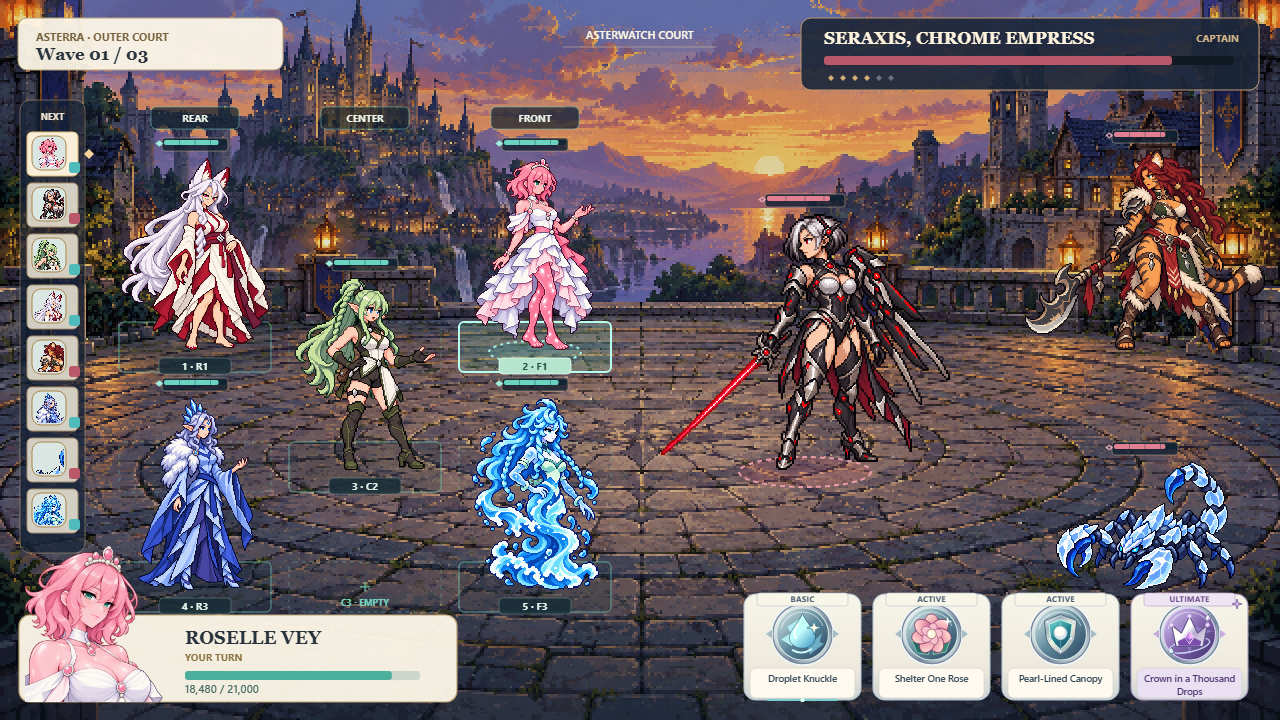
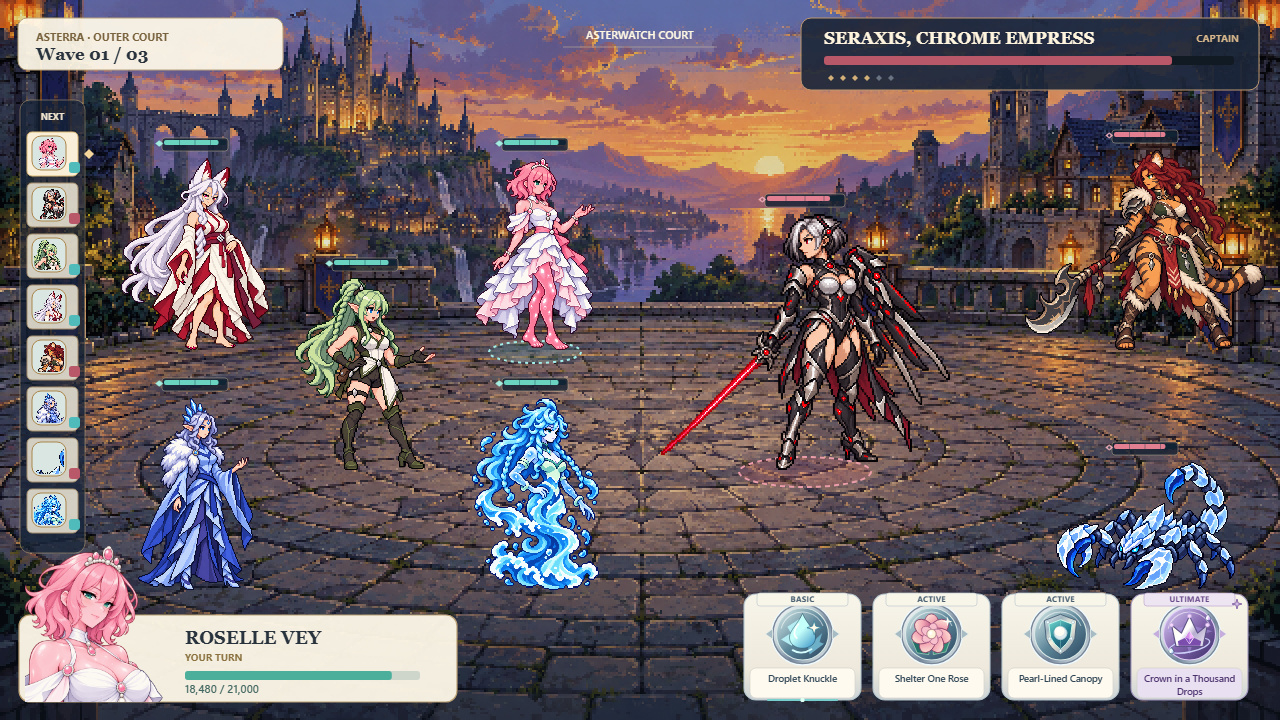
Publish current ProjectG character and kit review

diff --git a/formation-grids.html b/formation-grids.html
@@ -1,12 +1,15 @@
 <!doctype html><html lang="en"><head><meta charset="utf-8"><meta name="viewport" content="width=device-width,initial-scale=1"><title>ProjectG · Fixed-slot formation designs</title><style>
 :root{color-scheme:light;--paper:#f4f0e7;--card:#fffdf8;--ink:#28333d;--muted:#68645d;--line:#d9d1c2;--mint:#dceae5;--gold:#846739}*{box-sizing:border-box}body{margin:0;background:var(--paper);color:var(--ink);font:15px/1.5 system-ui,-apple-system,"Segoe UI",sans-serif}main{max-width:1500px;margin:auto;padding:26px clamp(14px,3vw,38px) 45px}h1{font:500 clamp(30px,4vw,43px)/1.1 Georgia,serif;margin:0}.eyebrow{font-size:11px;letter-spacing:.14em;text-transform:uppercase;color:var(--gold);font-weight:750;margin:0 0 9px}.intro{max-width:930px;color:var(--muted);margin:13px 0 14px}a{color:#735827;text-underline-offset:3px}.links{display:flex;flex-wrap:wrap;gap:12px 24px;margin:14px 0}.notice{border-left:3px solid #6d9186;background:#e3ece5;padding:11px 14px;font-size:13px}.designs{display:grid;grid-template-columns:1fr 1fr;gap:14px;margin:22px 0 16px}button{font:inherit;cursor:pointer}button:focus-visible,a:focus-visible{outline:3px solid #3c8b80;outline-offset:3px}button:disabled{cursor:wait;opacity:.6}.design{display:grid;grid-template-columns:1fr 150px;gap:15px;align-items:center;text-align:left;border:1px solid var(--line);border-radius:12px;background:var(--card);padding:16px 18px;color:var(--ink);min-height:144px}.design strong{display:block;font:500 25px Georgia,serif}.design small{display:block;margin-top:5px;color:var(--muted);font-size:12px}.design[aria-pressed=true]{background:#e9f0e9;border-color:#648d7e;box-shadow:inset 0 0 0 1px #648d7e}.mini{display:grid;grid-template-columns:repeat(3,1fr);gap:5px}.mini span{display:grid;place-items:center;border:1px solid #a9b8b0;border-radius:4px;height:23px;color:#60746d;background:#fff9e944;font-size:11px}.mini .filled{background:#536f68;color:white;border-color:#536f68}.toolbar{display:flex;gap:8px;flex-wrap:wrap;justify-content:space-between;align-items:center;margin:12px 0}.toolgroup{display:flex;gap:7px;flex-wrap:wrap;align-items:center}.toolgroup button,.download{min-height:44px;border:1px solid var(--line);border-radius:8px;background:var(--card);padding:8px 13px;color:var(--ink)}.toolgroup button[aria-pressed=true]{background:#dceae5;border-color:#6d9186}.download{background:#506e64;border-color:#506e64;color:white}.canvas-viewport{width:100%;overflow:auto;border:1px solid #b7bdba;border-radius:11px;background:#202c36;box-shadow:0 8px 24px #2737291a}.canvas-viewport canvas{display:block;width:100%;height:auto;max-width:none;image-rendering:pixelated}.canvas-viewport[data-zoom="1"] canvas{width:1280px;height:720px}.caption{display:flex;justify-content:space-between;gap:10px;flex-wrap:wrap;margin:10px 0 0;font-size:12px;color:var(--muted)}.caption strong{color:var(--ink)}.loading{font-size:12px;color:var(--muted);margin:8px 0 20px}.editor{border:1px solid var(--line);background:var(--card);border-radius:12px;padding:16px;margin:18px 0}.editor h2,.exports h2{font:500 24px Georgia,serif;margin:0 0 8px}.editor p{font-size:13px;color:var(--muted);margin:6px 0 12px}.party{display:flex;gap:7px;flex-wrap:wrap;margin:12px 0 16px}.party button{border:1px solid var(--line);border-radius:7px;min-height:44px;padding:8px 13px;background:#fffaf0;color:var(--ink)}.party button[aria-pressed=true]{border-color:#5b8a78;background:#dceae5}.slot-board{display:grid;grid-template-columns:repeat(3,minmax(0,1fr));gap:7px;max-width:680px}.rank-title{text-align:center;color:var(--muted);font-size:11px;text-transform:uppercase;letter-spacing:.1em;padding-bottom:3px}.slot-board button{min-height:58px;border:1px dashed #bdc9c2;border-radius:7px;background:#f1f3ed;color:#526c60;padding:7px 8px}.slot-board button strong{display:block;font-size:11px;color:#687e72}.slot-board button.occupied{border-style:solid;background:#e9eee6;color:#253f32}.slot-board button.selected{border:2px solid #51917d;background:#d8e9df}.slot-board button span{display:block;font-size:13px}.slot-feedback{min-height:22px;color:#3a6c57!important}.exports{margin-top:24px}.export-grid{display:grid;grid-template-columns:1fr 1fr;gap:14px}.export{display:block;border:1px solid var(--line);border-radius:10px;overflow:hidden;background:var(--card);text-decoration:none}.export img{display:block;width:100%;height:auto;image-rendering:pixelated}.export span{display:block;padding:10px 12px;font-size:13px}.pending{padding:20px;color:var(--muted)}footer{margin-top:24px;font-size:12px;color:var(--muted)}[hidden]{display:none!important}@media(max-width:720px){main{padding-top:20px}.designs,.export-grid{grid-template-columns:1fr}.design{grid-template-columns:1fr 114px;padding:13px 14px;min-height:116px}.design strong{font-size:23px}.mini{gap:4px}.toolbar{align-items:stretch}.download{width:100%}.party button{flex:1 1 125px}.editor{padding:13px}.slot-board button{font-size:12px}.caption{display:block}.caption span{display:block;margin-top:4px}}
+
+.phase-controls{display:flex;flex-wrap:wrap;align-items:center;justify-content:space-between;gap:13px;margin:18px 0;padding:15px 17px;background:var(--card);border:1px solid var(--line);border-radius:11px}.phase-controls strong{display:block;font-size:17px}.phase-controls p{margin:4px 0 0;color:var(--muted);font-size:13px}.phase-controls button{min-height:44px;border:1px solid #506e64;border-radius:8px;background:#506e64;color:white;padding:9px 18px}.phase-controls #return-setup{background:var(--card);border-color:var(--line);color:var(--ink)}@media(max-width:720px){.phase-controls{align-items:stretch}.phase-controls button{width:100%}}
 </style></head><body><main>
-<header><p class="eyebrow">ProjectG · Two formation designs</p><h1>Every hero has a fixed slot.</h1><p class="intro">Choose a formation system: nine slots or six. Both use three depth ranks—rear, center and front—with evenly spaced positions. Five heroes snap to those positions.</p><nav class="links"><a href="combat.html">Previous combat comparisons</a><a href="review.html">Characters</a><a href="portraits.html">Portraits</a><a href="enemies.html">Enemies</a></nav><p class="notice">Design drafts for your choice. The existing portrait, boss bar and emblem controls are carried forward. These two grids have not been selected for the game yet.</p></header>
-<section class="designs" aria-label="Choose between two fixed grids"><button class="design" data-design="3x3" aria-pressed="true" disabled><div><strong>A · 3 × 3 grid</strong><small>Starseed-style</small><small>Three ranks, three lanes. Five heroes occupy nine fixed slots.</small></div><div class="mini" aria-hidden="true"><span class="filled">1</span><span class="">·</span><span class="filled">2</span><span class="">·</span><span class="filled">3</span><span class="">·</span><span class="filled">4</span><span class="">·</span><span class="filled">5</span></div></button><button class="design" data-design="3x2" aria-pressed="false" disabled><div><strong>B · 3 × 2 grid</strong><small>Lost Sword-style</small><small>Three ranks, two lanes. Five heroes occupy six fixed slots.</small></div><div class="mini" aria-hidden="true"><span class="filled">1</span><span class="filled">2</span><span class="filled">3</span><span class="filled">4</span><span class="">·</span><span class="filled">5</span></div></button></section><p id="formation-description" class="intro"></p>
-<div class="toolbar"><div class="toolgroup"><button id="toggle-grid" aria-pressed="true">Grid visible</button><button data-zoom="fit" aria-pressed="true">Fit</button><button data-zoom="1" aria-pressed="false">1× pixels</button><button id="reset-grid">Reset slots</button></div><button class="download" id="download-canvas" disabled>Download this design · PNG</button></div>
[1 lines of base64/hex data omitted]
-<section class="editor"><h2>Try the slots.</h2><p>Tap a hero, then a slot. Choosing an occupied slot swaps the two heroes. Every move stays on the grid.</p><div class="party" aria-label="Select a hero"><button type="button" data-party-unit="soryn-veilglass" aria-pressed="false">1 · Soryn</button><button type="button" data-party-unit="roselle-vey" aria-pressed="true">2 · Roselle</button><button type="button" data-party-unit="liora-fernveil" aria-pressed="false">3 · Liora</button><button type="button" data-party-unit="isavelle-frostmere" aria-pressed="false">4 · Isavelle</button><button type="button" data-party-unit="nerielle-wavecrest" aria-pressed="false">5 · Nerielle</button></div><div id="slot-board" class="slot-board" aria-label="Fixed hero slots"></div><p id="slot-feedback" class="slot-feedback" aria-live="polite"></p><select id="portrait-hero" hidden><option value="soryn-veilglass">Soryn Veilglass</option><option value="roselle-vey">Roselle Vey</option><option value="liora-fernveil">Liora Fernveil</option><option value="isavelle-frostmere">Isavelle Frostmere</option><option value="nerielle-wavecrest">Nerielle Wavecrest</option></select><p id="portrait-status" hidden></p></section>
-<section class="exports"><h2>Compare the two designs.</h2><div class="export-grid"><a class="export" href="formation-grid-assets/design-a-3x3.png?v=4e9d9040e328" download><img src="formation-grid-assets/design-a-3x3.png?v=4e9d9040e328" alt="A: 3 × 3 grid fixed slot design" loading="lazy"><span>A · 3 × 3 grid · Download PNG</span></a><a class="export" href="formation-grid-assets/design-b-3x2.png?v=38c4d3234e08" download><img src="formation-grid-assets/design-b-3x2.png?v=38c4d3234e08" alt="B: 3 × 2 grid fixed slot design" loading="lazy"><span>B · 3 × 2 grid · Download PNG</span></a></div></section><footer>Hero art remains at192 logical pixels high; portrait framing, skill controls and HUD values match the previous review. HP values are illustrative. Reference systems: <a href="https://promotion.withhive.com/custom/board_detail/1156?language=en">Starseed’s formation guide</a> and <a href="https://lostsword.wemadeconnect.com/EN">Lost Sword</a>. Existing ProjectG artwork is reused; the reference games’ art is not included.</footer>
+<header><p class="eyebrow">ProjectG · Two formation designs</p><h1>Every hero has a fixed slot.</h1><p class="intro">Choose a formation system: nine slots or six. Both use three depth ranks—rear, center and front—with evenly spaced positions. Arrange your five heroes before entering battle.</p><nav class="links"><a href="combat.html">Previous combat comparisons</a><a href="review.html">Characters</a><a href="portraits.html">Portraits</a><a href="enemies.html">Enemies</a></nav><p class="notice">Design drafts for your choice. The existing portrait, boss bar and emblem controls are carried forward. These two grids have not been selected for the game yet.</p></header>
+<section id="design-picker" class="designs" aria-label="Choose between two fixed grids" data-setup-only><button class="design" data-design="3x3" aria-pressed="true" disabled><div><strong>A · 3 × 3 grid</strong><small>Starseed-style</small><small>Three ranks, three lanes. Five heroes occupy nine fixed slots.</small></div><div class="mini" aria-hidden="true"><span class="filled">1</span><span class="">·</span><span class="filled">2</span><span class="">·</span><span class="filled">3</span><span class="">·</span><span class="filled">4</span><span class="">·</span><span class="filled">5</span></div></button><button class="design" data-design="3x2" aria-pressed="false" disabled><div><strong>B · 3 × 2 grid</strong><small>Lost Sword-style</small><small>Three ranks, two lanes. Five heroes occupy six fixed slots.</small></div><div class="mini" aria-hidden="true"><span class="filled">1</span><span class="filled">2</span><span class="filled">3</span><span class="filled">4</span><span class="">·</span><span class="filled">5</span></div></button></section><p id="formation-description" class="intro" data-setup-only></p>
+<section class="phase-controls" aria-label="Battle preview phase"><div><strong id="phase-title">Pre-battle setup</strong><p id="phase-description">Arrange your heroes, then enter battle.</p></div><button id="enter-battle" disabled>Enter battle</button><button id="return-setup" hidden>End battle preview</button></section>
+<div class="toolbar"><div class="toolgroup"><button id="toggle-grid" aria-pressed="true" data-setup-only>Grid visible</button><button data-zoom="fit" aria-pressed="true">Fit</button><button data-zoom="1" aria-pressed="false">1× pixels</button><button id="reset-grid" data-setup-only>Reset slots</button></div><button class="download" id="download-canvas" disabled>Download this design · PNG</button></div>
[1 lines of base64/hex data omitted]
+<section id="formation-editor" class="editor" data-setup-only><h2>Prepare your formation.</h2><p>Tap a hero, then a slot. Choosing an occupied slot swaps the two heroes. Formation editing ends when you enter battle.</p><div class="party" aria-label="Select a hero"><button type="button" data-party-unit="soryn-veilglass" aria-pressed="false">1 · Soryn</button><button type="button" data-party-unit="roselle-vey" aria-pressed="true">2 · Roselle</button><button type="button" data-party-unit="liora-fernveil" aria-pressed="false">3 · Liora</button><button type="button" data-party-unit="isavelle-frostmere" aria-pressed="false">4 · Isavelle</button><button type="button" data-party-unit="nerielle-wavecrest" aria-pressed="false">5 · Nerielle</button></div><div id="slot-board" class="slot-board" aria-label="Fixed hero slots"></div><p id="slot-feedback" class="slot-feedback" aria-live="polite"></p><select id="portrait-hero" hidden><option value="soryn-veilglass">Soryn Veilglass</option><option value="roselle-vey">Roselle Vey</option><option value="liora-fernveil">Liora Fernveil</option><option value="isavelle-frostmere">Isavelle Frostmere</option><option value="nerielle-wavecrest">Nerielle Wavecrest</option></select><p id="portrait-status" hidden></p></section>
+<section class="exports" data-setup-only><h2>Compare the battle views.</h2><div class="export-grid"><a class="export" href="formation-grid-assets/design-a-3x3.png?v=c1ecd5834829" download><img src="formation-grid-assets/design-a-3x3.png?v=c1ecd5834829" alt="A: 3 × 3 grid fixed slot design" loading="lazy"><span>A · 3 × 3 grid · Download PNG</span></a><a class="export" href="formation-grid-assets/design-b-3x2.png?v=2bf7e8542c7d" download><img src="formation-grid-assets/design-b-3x2.png?v=2bf7e8542c7d" alt="B: 3 × 2 grid fixed slot design" loading="lazy"><span>B · 3 × 2 grid · Download PNG</span></a></div></section><footer>Hero art remains at192 logical pixels high; portrait framing, skill controls and HUD values match the previous review. HP values are illustrative. Reference systems: <a href="https://promotion.withhive.com/custom/board_detail/1156?language=en">Starseed’s formation guide</a> and <a href="https://lostsword.wemadeconnect.com/EN">Lost Sword</a>. Existing ProjectG artwork is reused; the reference games’ art is not included.</footer>
 <script id="combat-data" type="application/json">{"background": {"sprite": "combat-draft-assets/asterwatch-court-pixel-v1.png"}, "units": [{"id": "roselle-vey", "name": "Roselle Vey", "team": "hero", "logicalHeight": 192, "displayScale": 1, "facing": "right", "sprite": "combat-draft-assets/draft-roselle-vey-coarse-v1.png"}, {"id": "liora-fernveil", "name": "Liora Fernveil", "team": "hero", "logicalHeight": 192, "displayScale": 1, "facing": "right", "sprite": "combat-draft-assets/draft-liora-fernveil-coarse-v1.png"}, {"id": "soryn-veilglass", "name": "Soryn Veilglass", "team": "hero", "logicalHeight": 192, "displayScale": 1, "facing": "right", "sprite": "combat-draft-assets/draft-soryn-veilglass-coarse-v1.png"}, {"id": "isavelle-frostmere", "name": "Isavelle Frostmere", "team": "hero", "logicalHeight": 192, "displayScale": 1, "facing": "right", "sprite": "combat-draft-assets/draft-isavelle-frostmere-coarse-v1.png"}, {"id": "nerielle-wavecrest", "name": "Nerielle Wavecrest", "team": "hero", "logicalHeight": 192, "displayScale": 1, "facing": "right", "sprite": "combat-draft-assets/draft-nerielle-wavecrest-coarse-v1.png"}, {"id": "seraxis-chrome-empress", "name": "Seraxis, Chrome Empress", "team": "enemy", "logicalHeight": 224, "displayScale": 1, "facing": "left", "sprite": "combat-draft-assets/draft-seraxis-chrome-empress-coarse-v1.png"}, {"id": "velkara-moonfang", "name": "Velkara Moonfang", "team": "enemy", "logicalHeight": 200, "displayScale": 1, "facing": "left", "sprite": "combat-draft-assets/draft-velkara-moonfang-coarse-v1.png"}, {"id": "frostglass-scorpion", "name": "Frostglass Scorpion", "team": "enemy", "logicalHeight": 128, "displayScale": 1, "facing": "left", "sprite": "combat-draft-assets/draft-frostglass-scorpion-coarse-v1.png"}], "layouts": [{"id": "d", "name": "Your combined layout", "description": "Your five-hero formation aligned with the boss, with C’s boss bar and B’s compact portrait/HP panel and wave counter.", "label": "D", "positions": [{"id": "soryn-veilglass", "x": 235, "y": 439}, {"id": "liora-fernveil", "x": 373, "y": 490}, {"id": "roselle-vey", "x": 509, "y": 428}, {"id": "isavelle-frostmere", "x": 219, "y": 579}, {"id": "nerielle-wavecrest", "x": 505, "y": 596}, {"id": "seraxis-chrome-empress", "x": 930, "y": 490, "logicalHeight": 256}, {"id": "velkara-moonfang", "x": 1110, "y": 439}, {"id": "frostglass-scorpion", "x": 1130, "y": 579}]}], "activeId": "roselle-vey", "skills": ["Droplet Knuckle", "Shelter One Rose", "Pearl-Lined Canopy", "Crown in a Thousand Drops"], "genericSkills": ["Basic", "Active 1", "Active 2", "Ultimate"], "portraits": [{"id": "isavelle-frostmere", "name": "Isavelle Frostmere", "rosterScope": "accepted-new-identity-11-not-runtime-integrated", "sprite": "portrait-assets/portrait-isavelle-frostmere-illustrated-v1.png?v=dd5ea7b40330", "framing": {"faceCenterX": 717, "eyeLineY": 420, "chinY": 587}}, {"id": "liora-fernveil", "name": "Liora Fernveil", "rosterScope": "accepted-new-identity-11-not-runtime-integrated", "sprite": "portrait-assets/portrait-liora-fernveil-illustrated-v1.png?v=d4ae2aa139e7", "framing": {"faceCenterX": 749, "eyeLineY": 357, "chinY": 505}}, {"id": "nerielle-wavecrest", "name": "Nerielle Wavecrest", "rosterScope": "accepted-new-identity-11-not-runtime-integrated", "sprite": "portrait-assets/portrait-nerielle-wavecrest-illustrated-v1.png?v=fb8f02648b58", "framing": {"faceCenterX": 790, "eyeLineY": 390, "chinY": 530}}, {"id": "roselle-vey", "name": "Roselle Vey", "rosterScope": "accepted-new-identity-11-not-runtime-integrated", "sprite": "portrait-assets/portrait-roselle-vey-illustrated-v1.png?v=8556eec70e10", "framing": {"faceCenterX": 716, "eyeLineY": 366, "chinY": 549}}, {"id": "soryn-veilglass", "name": "Soryn Veilglass", "rosterScope": "accepted-new-identity-11-not-runtime-integrated", "sprite": "portrait-assets/portrait-soryn-veilglass-illustrated-v1.png?v=418653f6718b", "framing": {"faceCenterX": 729, "eyeLineY": 435, "chinY": 566}}], "portraitFrame": {"width": 146, "height": 190, "eyeLine": 88, "eyeToChin": 28, "faceCenterX": 73}, "defaultLayout": "d", "skillStyles": [{"id": "crests", "name": "01 · Crest seals", "description": "Sculpted medallions, luminous command symbols and a violet ultimate seal."}], "defaultSkillStyle": "crests", "defaultFormation": "3x3", "formationTeamOrder": ["soryn-veilglass", "roselle-vey", "liora-fernveil", "isavelle-frostmere", "nerielle-wavecrest"], "formations": [{"id": "3x3", "label": "A", "name": "3 × 3 grid", "inspiration": "Starseed-style", "description": "Three ranks, three lanes. Five heroes occupy nine fixed slots.", "columns": [195, 365, 535], "rows": [350, 470, 590], "enemyColumns": [805, 975, 1145], "initialAssignments": [0, 2, 4, 6, 8], "enemyAssignments": [3, 2, 8], "preview": "formation-grid-assets/design-a-3x3.png", "slots": [{"index": 0, "column": 0, "row": 0, "x": 195, "y": 350, "label": "R1"}, {"index": 1, "column": 1, "row": 0, "x": 365, "y": 350, "label": "C1"}, {"index": 2, "column": 2, "row": 0, "x": 535, "y": 350, "label": "F1"}, {"index": 3, "column": 0, "row": 1, "x": 195, "y": 470, "label": "R2"}, {"index": 4, "column": 1, "row": 1, "x": 365, "y": 470, "label": "C2"}, {"index": 5, "column": 2, "row": 1, "x": 535, "y": 470, "label": "F2"}, {"index": 6, "column": 0, "row": 2, "x": 195, "y": 590, "label": "R3"}, {"index": 7, "column": 1, "row": 2, "x": 365, "y": 590, "label": "C3"}, {"index": 8, "column": 2, "row": 2, "x": 535, "y": 590, "label": "F3"}], "enemySlots": [{"index": 0, "column": 0, "row": 0, "x": 805, "y": 350, "label": "F1"}, {"index": 1, "column": 1, "row": 0, "x": 975, "y": 350, "label": "C1"}, {"index": 2, "column": 2, "row": 0, "x": 1145, "y": 350, "label": "R1"}, {"index": 3, "column": 0, "row": 1, "x": 805, "y": 470, "label": "F2"}, {"index": 4, "column": 1, "row": 1, "x": 975, "y": 470, "label": "C2"}, {"index": 5, "column": 2, "row": 1, "x": 1145, "y": 470, "label": "R2"}, {"index": 6, "column": 0, "row": 2, "x": 805, "y": 590, "label": "F3"}, {"index": 7, "column": 1, "row": 2, "x": 975, "y": 590, "label": "C3"}, {"index": 8, "column": 2, "row": 2, "x": 1145, "y": 590, "label": "R3"}]}, {"id": "3x2", "label": "B", "name": "3 × 2 grid", "inspiration": "Lost Sword-style", "description": "Three ranks, two lanes. Five heroes occupy six fixed slots.", "columns": [195, 365, 535], "rows": [375, 590], "enemyColumns": [805, 975, 1145], "initialAssignments": [0, 1, 2, 3, 5], "enemyAssignments": [0, 2, 5], "preview": "formation-grid-assets/design-b-3x2.png", "slots": [{"index": 0, "column": 0, "row": 0, "x": 195, "y": 375, "label": "R1"}, {"index": 1, "column": 1, "row": 0, "x": 365, "y": 375, "label": "C1"}, {"index": 2, "column": 2, "row": 0, "x": 535, "y": 375, "label": "F1"}, {"index": 3, "column": 0, "row": 1, "x": 195, "y": 590, "label": "R2"}, {"index": 4, "column": 1, "row": 1, "x": 365, "y": 590, "label": "C2"}, {"index": 5, "column": 2, "row": 1, "x": 535, "y": 590, "label": "F2"}], "enemySlots": [{"index": 0, "column": 0, "row": 0, "x": 805, "y": 375, "label": "F1"}, {"index": 1, "column": 1, "row": 0, "x": 975, "y": 375, "label": "C1"}, {"index": 2, "column": 2, "row": 0, "x": 1145, "y": 375, "label": "R1"}, {"index": 3, "column": 0, "row": 1, "x": 805, "y": 590, "label": "F2"}, {"index": 4, "column": 1, "row": 1, "x": 975, "y": 590, "label": "C2"}, {"index": 5, "column": 2, "row": 1, "x": 1145, "y": 590, "label": "R2"}]}], "enemyOrder": ["seraxis-chrome-empress", "velkara-moonfang", "frostglass-scorpion"]}</script><script>
 const data=JSON.parse(document.querySelector('#combat-data').textContent),canvas=document.querySelector('#combat-canvas'),ctx=canvas.getContext('2d'),viewport=document.querySelector('#canvas-viewport'),status=document.querySelector('#render-status'),exportButton=document.querySelector('#download-canvas');
 const images=new Map(),grids=new Map(),bounds=new Map(),portraitImages=new Map(),portraitPending=new Map();const requestedPortrait=new URLSearchParams(location.search).get('portrait');const requestedSkills=new URLSearchParams(location.search).get('skills');const requestedFormation=new URLSearchParams(location.search).get('formation');let selected=data.defaultLayout,chosenFormation=data.formations.some(formation=>formation.id===requestedFormation)?requestedFormation:data.defaultFormation,chosenSkillStyle=data.skillStyles.some(style=>style.id===requestedSkills)?requestedSkills:data.defaultSkillStyle,ready=false,chosenPortrait=data.portraits.some(hero=>hero.id===requestedPortrait)?requestedPortrait:data.activeId;
@@ -58,25 +61,30 @@ async function choosePortrait(id){if(!data.portraits.some(hero=>hero.id===id))re
 
 async function load(){try{await Promise.all([{id:'background',...data.background},...data.units].map(asset=>new Promise((resolve,reject)=>{const image=new Image();image.onload=()=>{images.set(asset.id,image);if(asset.id!=='background')bounds.set(asset.id,alphaBounds(image));resolve();};image.onerror=()=>reject(Error('Some draft art is still in preparation.'));image.src=asset.sprite;})));ready=true;for(const button of document.querySelectorAll('[data-layout]'))button.disabled=false;const fragment=location.hash.slice(1);if(data.layouts.some(layout=>layout.id===fragment))selected=fragment;render();}catch(error){status.textContent=error.message;canvas.dataset.renderStatus='incomplete';ctx.fillStyle='#222a36';ctx.fillRect(0,0,1280,720);text('Combat drafts are preparing',640,335,34,'#f2e9d4','500','Georgia','center');text('The selected original art will appear here when ready.',640,379,17,'#c7c9cb','400','Segoe UI','center');}}
 
-const gridAssignments=new Map(data.formations.map(grid=>[grid.id,[...grid.initialAssignments]]));let selectedHero=data.activeId,showGrid=true;
+const gridAssignments=new Map(data.formations.map(grid=>[grid.id,[...grid.initialAssignments]]));let selectedHero=data.activeId,showGrid=true,phase='setup',battleSnapshot=null;
 const requestedDesign=new URLSearchParams(location.search).get('design')||location.hash.slice(1);if(data.formations.some(grid=>grid.id===requestedDesign))chosenFormation=requestedDesign;
-function currentGrid(){return data.formations.find(grid=>grid.id===chosenFormation);}
-function formationLayout(layout){const grid=currentGrid(),assignment=gridAssignments.get(grid.id);return {...layout,positions:[...data.formationTeamOrder.map((id,index)=>({id,...grid.slots[assignment[index]]})),...data.enemyOrder.map((id,index)=>({id,...grid.enemySlots[grid.enemyAssignments[index]],...(index===0?{logicalHeight:256}:{})}))]};}
+function currentGrid(){return data.formations.find(grid=>grid.id===(battleSnapshot?battleSnapshot.design:chosenFormation));}
+function currentAssignments(){return battleSnapshot?battleSnapshot.assignments:gridAssignments.get(chosenFormation);}
+function formationLayout(layout){const grid=currentGrid(),assignment=currentAssignments();return {...layout,positions:[...data.formationTeamOrder.map((id,index)=>({id,...grid.slots[assignment[index]]})),...data.enemyOrder.map((id,index)=>({id,...grid.enemySlots[grid.enemyAssignments[index]],...(index===0?{logicalHeight:256}:{})}))]};}
 function slotPads(grid,team){const cells=team==='hero'?grid.slots:grid.enemySlots,assignments=team==='hero'?gridAssignments.get(grid.id):grid.enemyAssignments,ids=team==='hero'?data.formationTeamOrder:data.enemyOrder;const base=team==='hero'?'#75d6bf':'#d68da1';for(const cell of cells){const owner=assignments.indexOf(cell.index),occupied=owner>=0,selected=team==='hero'&&ids[owner]===selectedHero;ctx.save();ctx.lineWidth=selected?2:1;ctx.setLineDash(occupied?[]:[4,4]);rounded(cell.x-76,cell.y-28,152,50,5,selected?'#63d8b42e':occupied?'#14293635':'#14293616',selected?'#b8fff0':occupied?base+'a6':base+'65',selected?2:1);ctx.setLineDash([]);if(!occupied){text('+',cell.x,cell.y+2,20,base+'ba','400','Segoe UI','center');text(cell.label+' · EMPTY',cell.x,cell.y+16,9,base,'650','Segoe UI','center');}ctx.restore();}const xs=team==='hero'?grid.columns:grid.enemyColumns,labels=team==='hero'?['REAR','CENTER','FRONT']:['FRONT','CENTER','REAR'];xs.forEach((x,index)=>{rounded(x-44,107,88,22,5,'#142330b8',base+'80');text(labels[index],x,122,10,'#eff5e9','700','Segoe UI','center');});}
 function slotBadges(layout){if(!showGrid)return;const grid=currentGrid(),assignment=gridAssignments.get(grid.id);data.formationTeamOrder.forEach((id,index)=>{const cell=grid.slots[assignment[index]],selected=id===selectedHero;rounded(cell.x-36,cell.y+8,72,16,4,selected?'#b5e5cf':'#182d37de',selected?'#e9fff0':'#99bcb177',.8);text((index+1)+' · '+cell.label,cell.x,cell.y+20,10,selected?'#1d5142':'#e2f6eb','700','Segoe UI','center');});}
-function formationControls(){const grid=currentGrid();document.querySelectorAll('[data-design]').forEach(button=>{button.disabled=!ready;button.setAttribute('aria-pressed',String(button.dataset.design===grid.id));});document.querySelector('#formation-description').textContent=grid.description+' Rear → center → front are columns, not row totals.';canvas.dataset.renderedFormation=grid.id;canvas.dataset.renderedGrid=grid.id;canvas.dataset.gridRows=String(grid.rows.length);canvas.dataset.gridColumns='3';canvas.dataset.gridCellCount=String(grid.slots.length);canvas.dataset.occupiedSlots=JSON.stringify(gridAssignments.get(grid.id));canvas.dataset.heroFootAnchors=JSON.stringify(formationLayout(data.layouts[0]).positions.filter(position=>data.formationTeamOrder.includes(position.id)).map(position=>({id:position.id,x:position.x,y:position.y,slot:position.index})));}
+function formationControls(){const grid=currentGrid(),inBattle=phase==='battle';document.querySelectorAll('[data-setup-only]').forEach(node=>node.hidden=inBattle);document.querySelectorAll('[data-design]').forEach(button=>{button.disabled=!ready||inBattle;button.setAttribute('aria-pressed',String(button.dataset.design===grid.id));});document.querySelector('#formation-description').textContent=grid.description+' Rear → center → front are columns, not row totals.';document.querySelector('#phase-title').textContent=inBattle?'Battle preview':'Pre-battle setup';document.querySelector('#phase-description').textContent=inBattle?'The deployed formation is locked for this battle.':'Arrange your heroes, then enter battle.';document.querySelector('#enter-battle').hidden=inBattle;document.querySelector('#enter-battle').disabled=!ready;document.querySelector('#return-setup').hidden=!inBattle;canvas.dataset.phase=phase;canvas.dataset.formationLocked=String(inBattle);canvas.dataset.editorVisible=String(!inBattle);canvas.dataset.renderedFormation=grid.id;canvas.dataset.renderedGrid=grid.id;canvas.dataset.gridRows=String(grid.rows.length);canvas.dataset.gridColumns='3';canvas.dataset.gridCellCount=String(grid.slots.length);canvas.dataset.occupiedSlots=JSON.stringify(currentAssignments());canvas.dataset.heroFootAnchors=JSON.stringify(formationLayout(data.layouts[0]).positions.filter(position=>data.formationTeamOrder.includes(position.id)).map(position=>({id:position.id,x:position.x,y:position.y,slot:position.index})));}
 function renderSlotEditor(){const grid=currentGrid(),assignment=gridAssignments.get(grid.id);document.querySelectorAll('[data-party-unit]').forEach(button=>button.setAttribute('aria-pressed',String(button.dataset.partyUnit===selectedHero)));document.querySelector('#slot-board').innerHTML=['Rear','Center','Front'].map(label=>`<div class="rank-title">${label}</div>`).join('')+grid.slots.map(cell=>{const owner=assignment.indexOf(cell.index),id=data.formationTeamOrder[owner],name=owner<0?'Empty':data.units.find(unit=>unit.id===id).name.split(' ')[0];return `<button type="button" data-slot="${cell.index}" class="${owner>=0?'occupied ':''}${id===selectedHero?'selected':''}" aria-label="${cell.label}: ${owner<0?'empty':name}; place selected hero here"><strong>${cell.label}</strong><span>${owner<0?'+ Empty':(owner+1)+' · '+name}</span></button>`;}).join('');}
-function render(){if(!ready)return;const grid=currentGrid(),layout=formationLayout(data.layouts[0]);ctx.clearRect(0,0,1280,720);background();if(showGrid)slotPads(grid,'hero');const rendered=[...layout.positions].sort((a,b)=>a.y-b.y).map(position=>unitDraw(data.units.find(unit=>unit.id===position.id),position,layout));rendered.forEach(item=>floatingBar(item.unit,item.position,item.grid,layout));slotBadges(layout);topHud(layout);initiative(layout);bottomHud(layout);document.querySelector('#layout-caption').textContent=grid.label+' · '+grid.name;document.querySelector('#layout-description').textContent='3 depth ranks × '+grid.rows.length+' lanes · '+grid.slots.length+' fixed hero slots';formationControls();renderSlotEditor();canvas.dataset.renderedLayout='d';canvas.dataset.skillStyle='crests';canvas.dataset.selectedPortrait=chosenPortrait;canvas.dataset.portraitStatus=portraitImages.has(chosenPortrait)?'ready':'loading';canvas.dataset.renderStatus=portraitImages.has(chosenPortrait)?'ready':'portrait-pending';canvas.dataset.gridVisible=String(showGrid);status.textContent=portraitImages.has(chosenPortrait)?'Ready · all feet snap to fixed grid centers':'Preparing the illustrated portrait…';exportButton.disabled=!portraitImages.has(chosenPortrait);}
-function selectHero(id){selectedHero=id;choosePortrait(id);document.querySelector('#slot-feedback').textContent=data.units.find(unit=>unit.id===id).name+' selected. Choose a slot to move or swap.';}
-function placeHero(slot){const grid=currentGrid(),assignment=gridAssignments.get(grid.id),hero=data.formationTeamOrder.indexOf(selectedHero);if(hero<0||!Number.isInteger(slot)||slot<0||slot>=grid.slots.length)return;const current=assignment[hero],other=assignment.indexOf(slot);if(other>=0)assignment[other]=current;assignment[hero]=slot;document.querySelector('#slot-feedback').textContent=data.units.find(unit=>unit.id===selectedHero).name+' → '+grid.slots[slot].label+(other>=0&&other!==hero?' · positions swapped':'');render();}
-for(const button of document.querySelectorAll('[data-design]'))button.addEventListener('click',()=>{chosenFormation=button.dataset.design;const url=new URL(location.href);url.searchParams.set('design',chosenFormation);url.hash=chosenFormation;history.replaceState(null,'',url);document.querySelector('#slot-feedback').textContent='';render();});
+function render(){if(!ready)return;const grid=currentGrid(),layout=formationLayout(data.layouts[0]),editing=phase==='setup';ctx.clearRect(0,0,1280,720);background();if(editing&&showGrid)slotPads(grid,'hero');const rendered=[...layout.positions].sort((a,b)=>a.y-b.y).map(position=>unitDraw(data.units.find(unit=>unit.id===position.id),position,layout));rendered.forEach(item=>floatingBar(item.unit,item.position,item.grid,layout));if(editing)slotBadges(layout);topHud(layout);initiative(layout);bottomHud(layout);document.querySelector('#layout-caption').textContent=grid.label+' · '+grid.name;document.querySelector('#layout-description').textContent=editing?'3 depth ranks × '+grid.rows.length+' lanes · '+grid.slots.length+' fixed hero slots':'Battle · deployed positions locked';formationControls();if(editing)renderSlotEditor();canvas.dataset.renderedLayout='d';canvas.dataset.skillStyle='crests';canvas.dataset.selectedPortrait=chosenPortrait;canvas.dataset.portraitStatus=portraitImages.has(chosenPortrait)?'ready':'loading';canvas.dataset.renderStatus=portraitImages.has(chosenPortrait)?'ready':'portrait-pending';canvas.dataset.gridVisible=String(editing&&showGrid);status.textContent=portraitImages.has(chosenPortrait)?editing?'Pre-battle setup · choose slots before entering':'Battle preview · tap a hero to inspect their portrait':'Preparing the illustrated portrait…';exportButton.disabled=!portraitImages.has(chosenPortrait);}
+function selectHero(id){if(phase==='setup'){selectedHero=id;document.querySelector('#slot-feedback').textContent=data.units.find(unit=>unit.id===id).name+' selected. Choose a slot to move or swap.';}choosePortrait(id);}
+function placeHero(slot){if(phase!=='setup')return;const grid=currentGrid(),assignment=gridAssignments.get(grid.id),hero=data.formationTeamOrder.indexOf(selectedHero);if(hero<0||!Number.isInteger(slot)||slot<0||slot>=grid.slots.length)return;const current=assignment[hero],other=assignment.indexOf(slot);if(other>=0)assignment[other]=current;assignment[hero]=slot;document.querySelector('#slot-feedback').textContent=data.units.find(unit=>unit.id===selectedHero).name+' → '+grid.slots[slot].label+(other>=0&&other!==hero?' · positions swapped':'');render();}
+function enterBattle(){if(!ready||phase!=='setup')return;battleSnapshot=Object.freeze({design:chosenFormation,assignments:Object.freeze([...gridAssignments.get(chosenFormation)])});phase='battle';choosePortrait(data.activeId);render();viewport.scrollIntoView({block:'center',behavior:'auto'});}
+function returnToSetup(){if(phase!=='battle')return;chosenFormation=battleSnapshot.design;phase='setup';battleSnapshot=null;document.querySelector('#slot-feedback').textContent='Battle preview ended. You can prepare the next formation.';render();document.querySelector('#design-picker').scrollIntoView({block:'start',behavior:'auto'});}
+for(const button of document.querySelectorAll('[data-design]'))button.addEventListener('click',()=>{if(phase!=='setup')return;chosenFormation=button.dataset.design;const url=new URL(location.href);url.searchParams.set('design',chosenFormation);url.hash=chosenFormation;history.replaceState(null,'',url);document.querySelector('#slot-feedback').textContent='';render();});
 for(const button of document.querySelectorAll('[data-party-unit]'))button.addEventListener('click',()=>selectHero(button.dataset.partyUnit));
 document.querySelector('#slot-board').addEventListener('click',event=>{const button=event.target.closest('[data-slot]');if(button)placeHero(Number(button.dataset.slot));});
-document.querySelector('#reset-grid').addEventListener('click',()=>{for(const grid of data.formations)gridAssignments.set(grid.id,[...grid.initialAssignments]);selectedHero=data.activeId;choosePortrait(data.activeId);document.querySelector('#slot-feedback').textContent='Default slots restored.';render();});
-document.querySelector('#toggle-grid').addEventListener('click',event=>{showGrid=!showGrid;event.currentTarget.setAttribute('aria-pressed',String(showGrid));event.currentTarget.textContent=showGrid?'Grid visible':'Grid hidden';render();});
+document.querySelector('#reset-grid').addEventListener('click',()=>{if(phase!=='setup')return;for(const grid of data.formations)gridAssignments.set(grid.id,[...grid.initialAssignments]);selectedHero=data.activeId;choosePortrait(data.activeId);document.querySelector('#slot-feedback').textContent='Default slots restored.';render();});
+document.querySelector('#toggle-grid').addEventListener('click',event=>{if(phase!=='setup')return;showGrid=!showGrid;event.currentTarget.setAttribute('aria-pressed',String(showGrid));event.currentTarget.textContent=showGrid?'Grid visible':'Grid hidden';render();});
+document.querySelector('#enter-battle').addEventListener('click',enterBattle);
+document.querySelector('#return-setup').addEventListener('click',returnToSetup);
 for(const button of document.querySelectorAll('button[data-zoom]'))button.addEventListener('click',()=>{viewport.dataset.zoom=button.dataset.zoom;for(const other of document.querySelectorAll('button[data-zoom]'))other.setAttribute('aria-pressed',String(other===button));});
 exportButton.addEventListener('click',()=>{if(!ready)return;const design=chosenFormation;canvas.toBlob(blob=>{if(!blob)return;const href=URL.createObjectURL(blob),link=document.createElement('a');link.href=href;link.download=design==='3x3'?'projectg-grid-design-a-3x3.png':'projectg-grid-design-b-3x2.png';link.click();setTimeout(()=>URL.revokeObjectURL(href),2000);},'image/png');});
-canvas.addEventListener('click',event=>{if(!ready)return;const rect=canvas.getBoundingClientRect(),x=(event.clientX-rect.left)*1280/rect.width,y=(event.clientY-rect.top)*720/rect.height,grid=currentGrid();const cell=grid.slots.find(slot=>Math.abs(slot.x-x)<=76&&y>=slot.y-28&&y<=slot.y+25);if(cell){placeHero(cell.index);return;}const hero=heroAtPoint(x,y,formationLayout(data.layouts[0]));if(hero)selectHero(hero);});
+canvas.addEventListener('click',event=>{if(!ready)return;const rect=canvas.getBoundingClientRect(),x=(event.clientX-rect.left)*1280/rect.width,y=(event.clientY-rect.top)*720/rect.height,grid=currentGrid();if(phase==='setup'){const cell=grid.slots.find(slot=>Math.abs(slot.x-x)<=76&&y>=slot.y-28&&y<=slot.y+25);if(cell){placeHero(cell.index);return;}}const hero=heroAtPoint(x,y,formationLayout(data.layouts[0]));if(hero)selectHero(hero);});
 portraitNote();choosePortrait(chosenPortrait);load();
 
 
